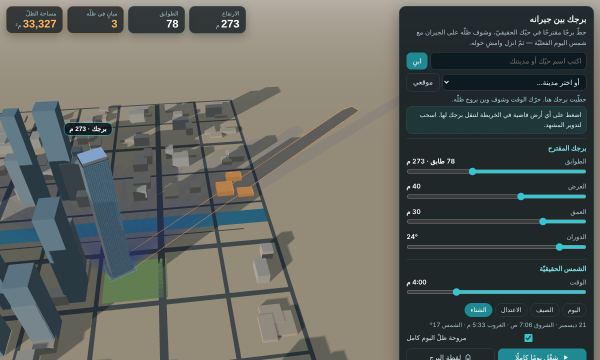
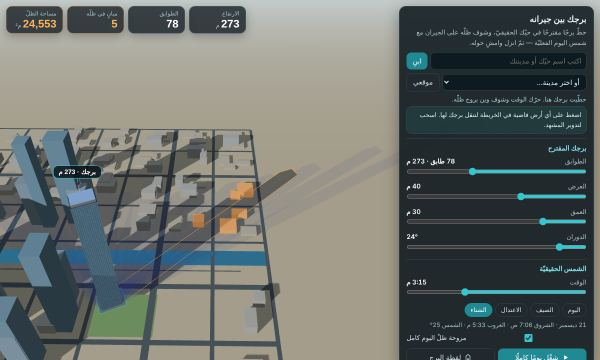
تجارب «مدينتك الحقيقيّة»: «أبرد طريق ظهرًا» مكتملة + لقطة الباقي
Claude-Session: https://claude.ai/code/session_016SPVkCyq3th8Kb5uBbd4wR

diff --git a/inspire/city/tower.html b/inspire/city/tower.html
@@ -779,12 +779,17 @@ body.tw-walk .tw-joy{display:block}body.tw-walk .tw-walkbar{display:flex}body.tw
   function flash(msg) { ctx.ui.status(msg); }
 
   // ── الكاميرا ──
-  function heroGoal() {
-    const h = H(), s = S.sun, sv = S.shadowVec;
+  function heroGoal() { // إطار يحوي البرج من قاعدته لقمّته وظلّه، حسب المساحة المكشوفة خارج اللوحة
+    const h = H(), s = S.sun, sv = S.shadowVec, W = window.innerWidth, Hh = window.innerHeight, r = ctx.ui.box.getBoundingClientRect();
     const th = s && s.alt > 0.5 * DEG ? Math.atan2(s.x, s.z) + 0.8 : 0.75;
-    const L = sv ? Math.min(Math.hypot(sv[0], sv[1]), h * 2.5) : 0, u = sv && L ? [sv[0] / Math.hypot(sv[0], sv[1]), sv[1] / Math.hypot(sv[0], sv[1])] : [0, 0];
-    const tall = window.innerWidth / window.innerHeight < 0.8, off = tall ? 0.12 : 0.26;
-    return { target: new THREE.Vector3(S.x + u[0] * L * off, h * 0.3, S.z + u[1] * L * off), dist: clamp((h * 1.4 + L * 0.3 + 110) * (tall ? 1.35 : 1), 230, 1800), theta: th, phi: 0.86 };
+    let visW = W, visH = Hh;
+    if (r.width && r.top > Hh * 0.3) visH = r.top; else if (r.width && r.left > W * 0.45) visW = r.left;
+    visH = Math.max(120, visH - 60); // بطاقات الأرقام في الأعلى
+    const tall = visW / visH < 0.9, Lraw = sv ? Math.hypot(sv[0], sv[1]) : 0, Lc = Math.min(Lraw, h * (tall ? 0.9 : 2));
+    const u = Lraw ? [sv[0] / Lraw, sv[1] / Lraw] : [0, 0], cA = Lc / 2, cY = (h + 35) / 2;
+    const radius = Math.hypot(cA, cY) + Math.max(P.w, P.d) * 0.6, t = Math.tan(ctx.camera.fov / 2 * DEG);
+    const half = Math.min(Math.atan(t * visH / Hh), Math.atan(t * visW / Hh));
+    return { target: new THREE.Vector3(S.x + u[0] * cA, cY, S.z + u[1] * cA), dist: clamp(radius / Math.sin(half) * 0.95, 200, 2600), theta: th, phi: 0.88 };
   }
   function hero(instant) {
     if (!S || S.walking) return;

diff --git a/inspire/src/tower.html b/inspire/src/tower.html
@@ -427,12 +427,17 @@ body.tw-walk .tw-joy{display:block}body.tw-walk .tw-walkbar{display:flex}body.tw
   function flash(msg) { ctx.ui.status(msg); }
 
   // ── الكاميرا ──
-  function heroGoal() {
-    const h = H(), s = S.sun, sv = S.shadowVec;
+  function heroGoal() { // إطار يحوي البرج من قاعدته لقمّته وظلّه، حسب المساحة المكشوفة خارج اللوحة
+    const h = H(), s = S.sun, sv = S.shadowVec, W = window.innerWidth, Hh = window.innerHeight, r = ctx.ui.box.getBoundingClientRect();
     const th = s && s.alt > 0.5 * DEG ? Math.atan2(s.x, s.z) + 0.8 : 0.75;
-    const L = sv ? Math.min(Math.hypot(sv[0], sv[1]), h * 2.5) : 0, u = sv && L ? [sv[0] / Math.hypot(sv[0], sv[1]), sv[1] / Math.hypot(sv[0], sv[1])] : [0, 0];
-    const tall = window.innerWidth / window.innerHeight < 0.8, off = tall ? 0.12 : 0.26;
-    return { target: new THREE.Vector3(S.x + u[0] * L * off, h * 0.3, S.z + u[1] * L * off), dist: clamp((h * 1.4 + L * 0.3 + 110) * (tall ? 1.35 : 1), 230, 1800), theta: th, phi: 0.86 };
+    let visW = W, visH = Hh;
+    if (r.width && r.top > Hh * 0.3) visH = r.top; else if (r.width && r.left > W * 0.45) visW = r.left;
+    visH = Math.max(120, visH - 60); // بطاقات الأرقام في الأعلى
+    const tall = visW / visH < 0.9, Lraw = sv ? Math.hypot(sv[0], sv[1]) : 0, Lc = Math.min(Lraw, h * (tall ? 0.9 : 2));
+    const u = Lraw ? [sv[0] / Lraw, sv[1] / Lraw] : [0, 0], cA = Lc / 2, cY = (h + 35) / 2;
+    const radius = Math.hypot(cA, cY) + Math.max(P.w, P.d) * 0.6, t = Math.tan(ctx.camera.fov / 2 * DEG);
+    const half = Math.min(Math.atan(t * visH / Hh), Math.atan(t * visW / Hh));
+    return { target: new THREE.Vector3(S.x + u[0] * cA, cY, S.z + u[1] * cA), dist: clamp(radius / Math.sin(half) * 0.95, 200, 2600), theta: th, phi: 0.88 };
   }
   function hero(instant) {
     if (!S || S.walking) return;

diff --git a/inspire/city/drone.html b/inspire/city/drone.html
@@ -1080,6 +1080,16 @@
       return Object.assign({ x: +S.d.pos.x.toFixed(1), z: +S.d.pos.z.toFixed(1) }, window.__inspire_state);
     },
     demo(on) { setDemo(on !== false); return window.__inspire_state; },
+    stage(k, back) { // لقطة: يطير تلقائيًّا حتّى الحلقة k ثمّ يصطفّ على خطّ الاقتراب منها ويواصل الطيران
+      if (!S) return null; k = clamp(k | 0, 0, S.rings.length - 1); back = back || 24;
+      window.__drone.simulate(300, (s) => s.race.passed >= k);
+      if (S.race.state !== 'racing') return window.__inspire_state;
+      const g = S.rings[k], D = S.d, ci = S.wps.findIndex((w) => w.ring === k);
+      D.pos.set(g.x - g.nx * back, g.y + 1, g.z - g.nz * back); D.prev.copy(D.pos); D.vel.set(g.nx * 15, 0, g.nz * 15);
+      D.yaw = yawTo(g.nx, g.nz); D.pitch = 0.3; D.roll = 0; D.yawRate = 0; resetTrail();
+      setDemo(true); S.ap = Math.max(0, ci - 1); snapCam(); render(0, performance.now()); hud(); publish();
+      return window.__inspire_state;
+    },
     cam(m) { setCam(m); return opts.cam; },
     rings(n) { UI.nI.value = n; UI.nI.dispatchEvent(new Event('input')); UI.nI.dispatchEvent(new Event('change')); return window.__inspire_state; },
     speed(v) { UI.vI.value = v; UI.vI.dispatchEvent(new Event('input')); return C2; },

diff --git a/inspire/src/drone.html b/inspire/src/drone.html
@@ -728,6 +728,16 @@
       return Object.assign({ x: +S.d.pos.x.toFixed(1), z: +S.d.pos.z.toFixed(1) }, window.__inspire_state);
     },
     demo(on) { setDemo(on !== false); return window.__inspire_state; },
+    stage(k, back) { // لقطة: يطير تلقائيًّا حتّى الحلقة k ثمّ يصطفّ على خطّ الاقتراب منها ويواصل الطيران
+      if (!S) return null; k = clamp(k | 0, 0, S.rings.length - 1); back = back || 24;
+      window.__drone.simulate(300, (s) => s.race.passed >= k);
+      if (S.race.state !== 'racing') return window.__inspire_state;
+      const g = S.rings[k], D = S.d, ci = S.wps.findIndex((w) => w.ring === k);
+      D.pos.set(g.x - g.nx * back, g.y + 1, g.z - g.nz * back); D.prev.copy(D.pos); D.vel.set(g.nx * 15, 0, g.nz * 15);
+      D.yaw = yawTo(g.nx, g.nz); D.pitch = 0.3; D.roll = 0; D.yawRate = 0; resetTrail();
+      setDemo(true); S.ap = Math.max(0, ci - 1); snapCam(); render(0, performance.now()); hud(); publish();
+      return window.__inspire_state;
+    },
     cam(m) { setCam(m); return opts.cam; },
     rings(n) { UI.nI.value = n; UI.nI.dispatchEvent(new Event('input')); UI.nI.dispatchEvent(new Event('change')); return window.__inspire_state; },
     speed(v) { UI.vI.value = v; UI.vI.dispatchEvent(new Event('input')); return C2; },

diff --git a/inspire/city/walkshade.html b/inspire/city/walkshade.html
@@ -961,7 +961,8 @@
     S.G = buildGraph(city.roads, ctx.R);
     S.smp = buildSamples(S.G);
     S.sunlit = new Uint8Array(S.smp.M); S.frac = new Float32Array(S.G.E); S.netShade = 0;
-    S.overlay = buildOverlay(S.G, S.smp); S.overlay.visible = S.map; city.group.add(S.overlay);
+    S.overlay = null;
+    if (S.smp.M) { S.overlay = buildOverlay(S.G, S.smp); S.overlay.visible = S.map; city.group.add(S.overlay); }
     S.routeGroup = new THREE.Group(); city.group.add(S.routeGroup);
     S.pinA = makePin(0x39e58c); S.pinB = makePin(0xff4d6d); city.group.add(S.pinA.g, S.pinB.g);
     S.disc = new THREE.Sprite(MAT.disc); S.disc.scale.set(ctx.R * 0.45, ctx.R * 0.45, 1); city.group.add(S.disc);

diff --git a/inspire/src/walkshade.html b/inspire/src/walkshade.html
@@ -609,7 +609,8 @@
     S.G = buildGraph(city.roads, ctx.R);
     S.smp = buildSamples(S.G);
     S.sunlit = new Uint8Array(S.smp.M); S.frac = new Float32Array(S.G.E); S.netShade = 0;
-    S.overlay = buildOverlay(S.G, S.smp); S.overlay.visible = S.map; city.group.add(S.overlay);
+    S.overlay = null;
+    if (S.smp.M) { S.overlay = buildOverlay(S.G, S.smp); S.overlay.visible = S.map; city.group.add(S.overlay); }
     S.routeGroup = new THREE.Group(); city.group.add(S.routeGroup);
     S.pinA = makePin(0x39e58c); S.pinB = makePin(0xff4d6d); city.group.add(S.pinA.g, S.pinB.g);
     S.disc = new THREE.Sprite(MAT.disc); S.disc.scale.set(ctx.R * 0.45, ctx.R * 0.45, 1); city.group.add(S.disc);
